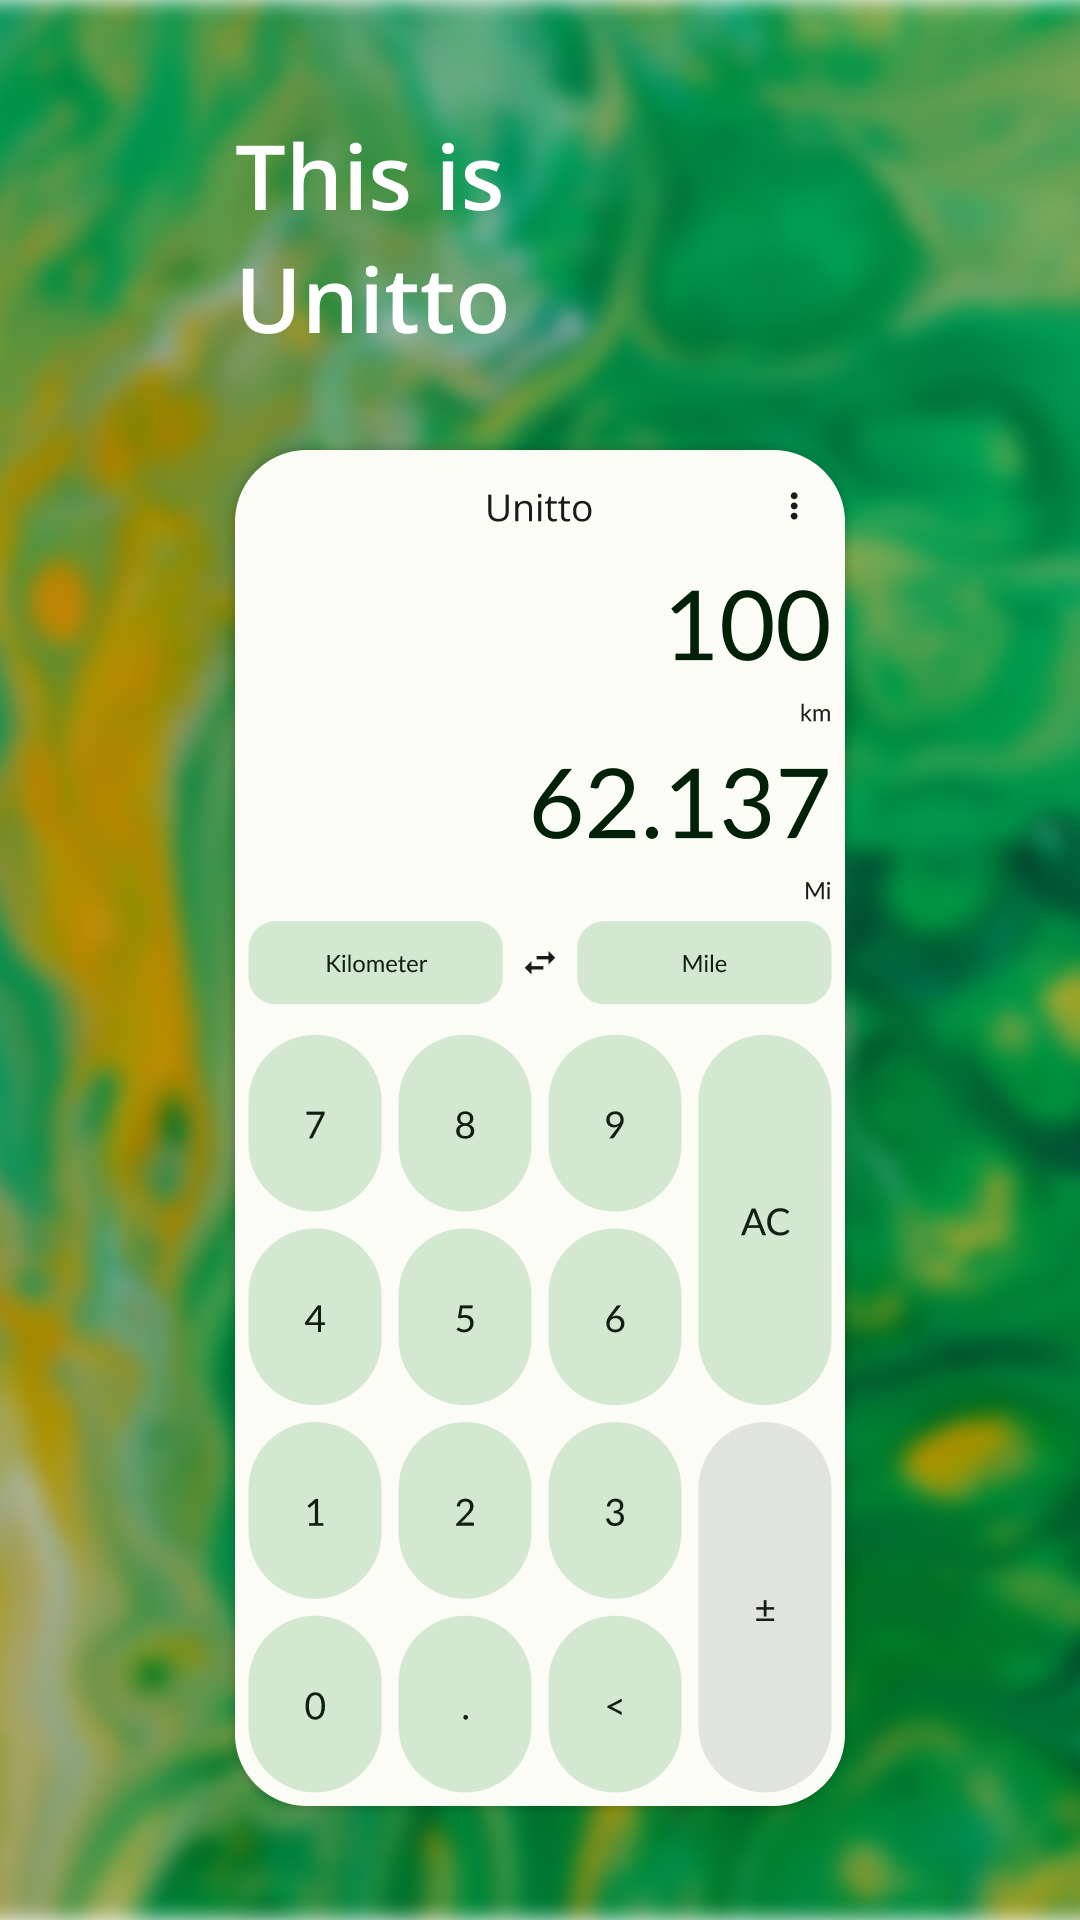
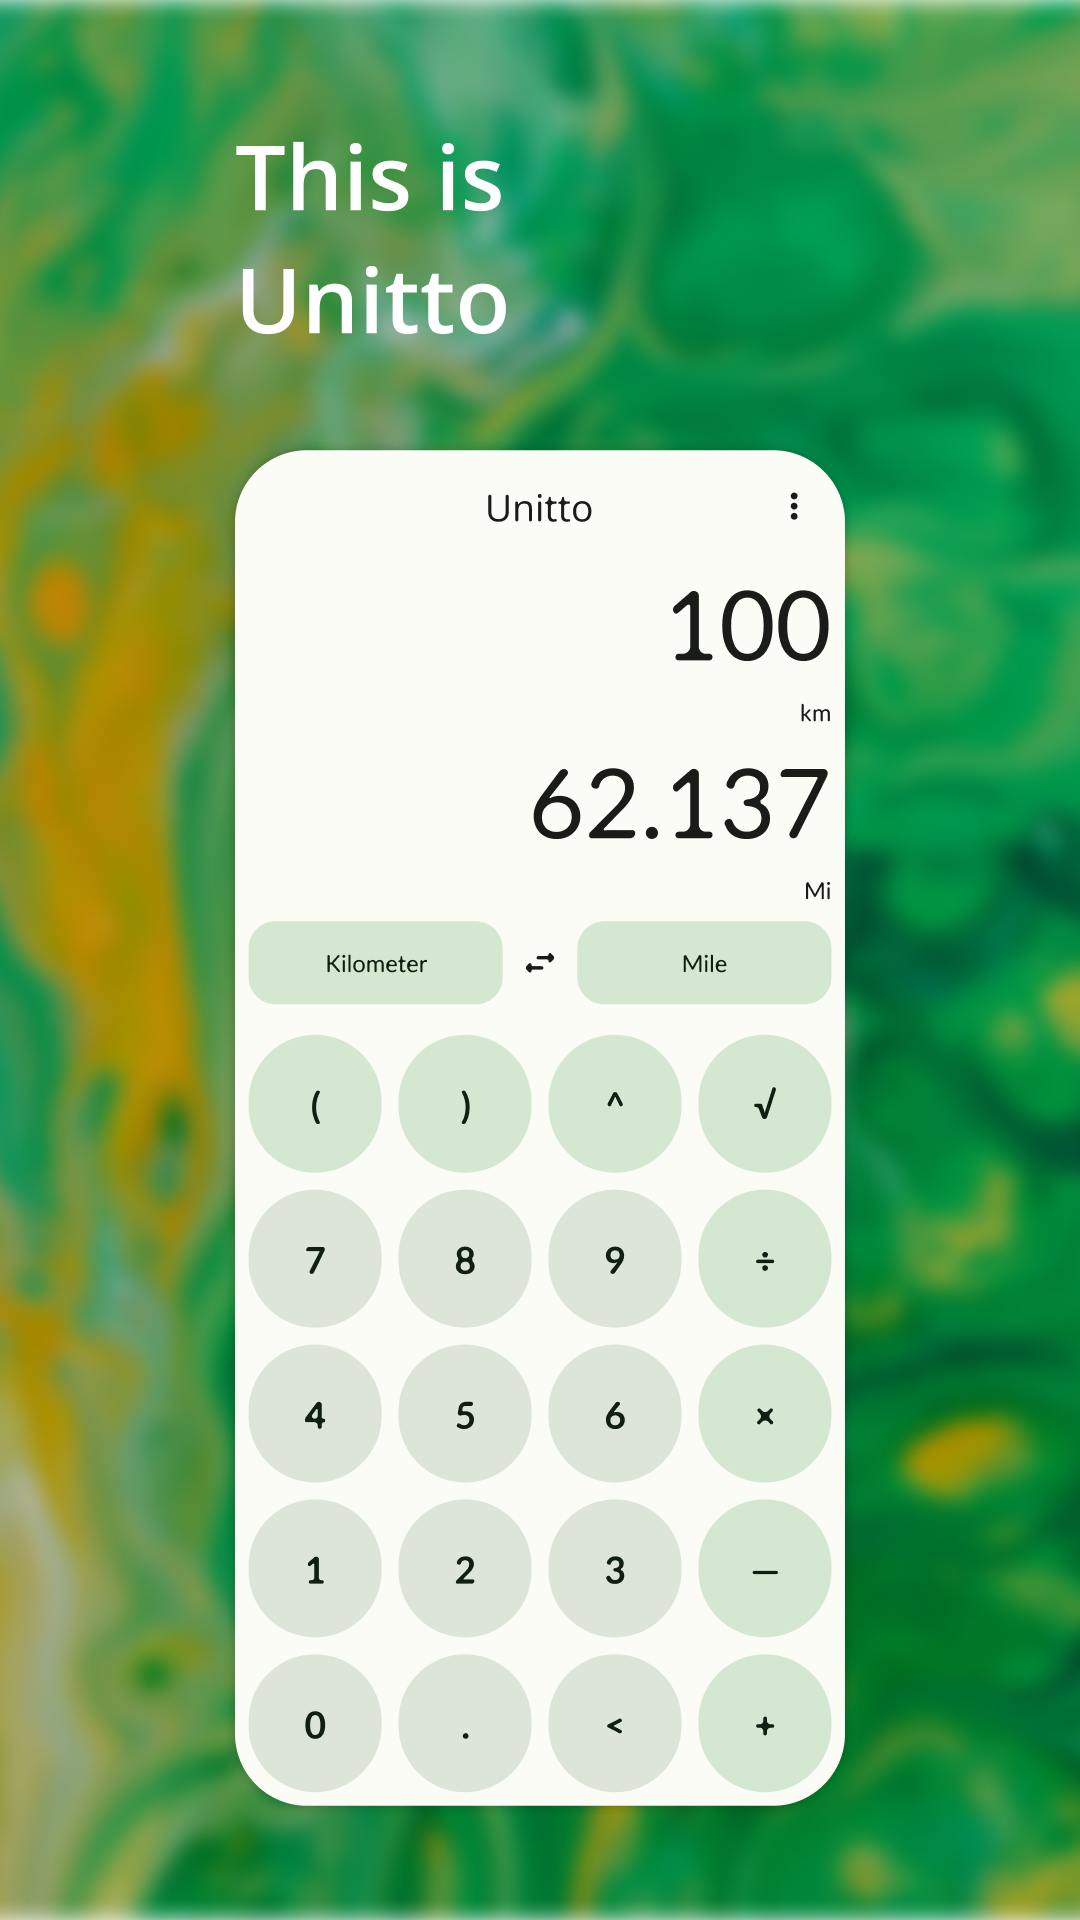
Updated media

Changed region(s): [[0.2139, 0.5625, 0.7944, 0.9062], [0.4889, 0.375, 0.7639, 0.4375], [0.6111, 0.2812, 0.7639, 0.3438]]

diff --git a/README.md b/README.md
@@ -1,24 +1,39 @@
 # Unitto
 Unit converter for Android
 ![Feature](./fastlane/metadata/android/en-US/images/featureGraphic.png)
-This is Unitto, a free unit converter mobile app for Android devices. It uses Material Design 3 guidelines and supports all the latest Android features.
+This is Unitto — free unit converter and calculator mobile app for Android. 
 
-Key features:
+## Some screenshots:
+<p align="middle">
+    <!-- No, you can't make it 50% -->
+    <img src="./fastlane/metadata/android/en-US/images/phoneScreenshots/slide1.png" width="32%" />
+    <img src="./fastlane/metadata/android/en-US/images/phoneScreenshots/slide2.png" width="32%" />
+    <img src="./fastlane/metadata/android/en-US/images/phoneScreenshots/slide3.png" width="32%" />
+    <img src="./fastlane/metadata/android/en-US/images/phoneScreenshots/slide4.png" width="32%" />
+    <img src="./fastlane/metadata/android/en-US/images/phoneScreenshots/slide5.png" width="32%" />
+</p>
+
+## Some of the features:
 - More than 430 units
+- Built-in calculator
+- Smart units search
+- Adaptive units sorting algorithm
+- Small app size
+- Bulk convert units
+- Favorite units
+- Ability to disable unit groups
+- Customizable number formatter
 - SI Standard
 - No ads, obviously
 - Supports Dynamic Theming
-- Highly customizable
-- Just looks good, I guess…
 
-Some screenshots:
-<p align="middle">
-    <!-- No, you can't make it 50% -->
-    <img src="./fastlane/metadata/android/en-US/images/phoneScreenshots/slide1.png" width="49%" />
-    <img src="./fastlane/metadata/android/en-US/images/phoneScreenshots/slide2.png" width="49%" />
-    <img src="./fastlane/metadata/android/en-US/images/phoneScreenshots/slide3.png" width="49%" />
-    <img src="./fastlane/metadata/android/en-US/images/phoneScreenshots/slide4.png" width="49%" />
-</p>
+And many more!
+
+## Main goal
+The goal of this little project is to make an app that will allow it's users to convert units as quick as possible. This can be achieved by constant UX improvements and my coding skills.
+
+## Contribute
+Any sort of help is welcomed. Open issues, start threads in discussions or just use ***Unitto***. Thank you!
 
 ## Links
 <a href="https://play.google.com/store/apps/details?id=com.sadellie.unitto"><img alt="Google Play" src="./content/googlePlay.png" width="32%"/></a>
